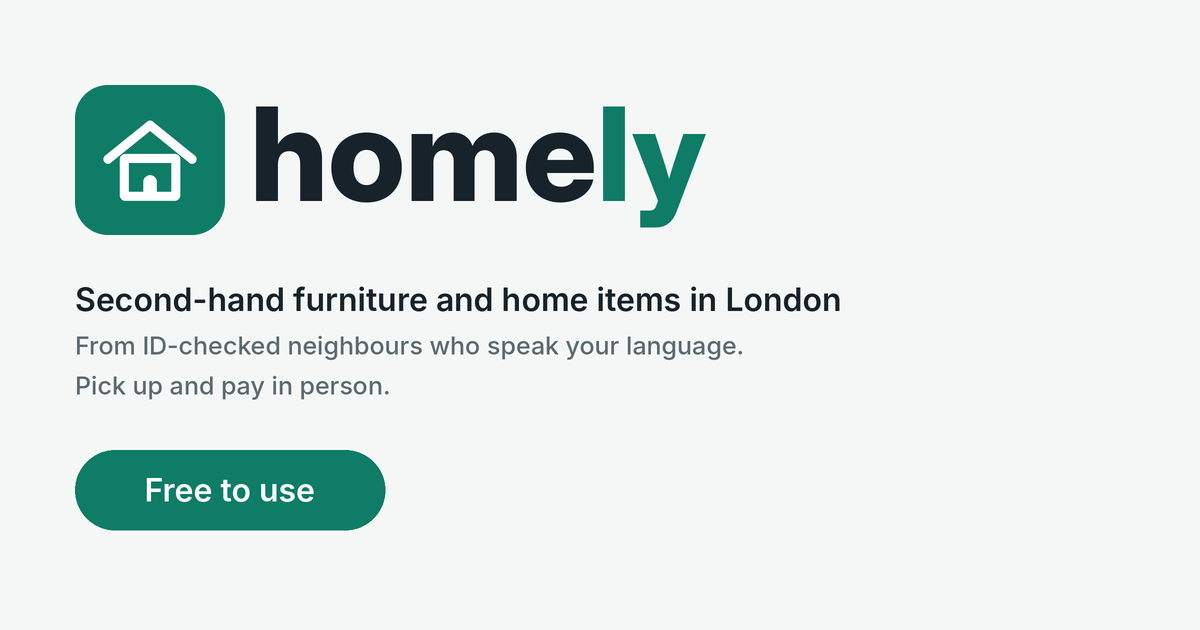
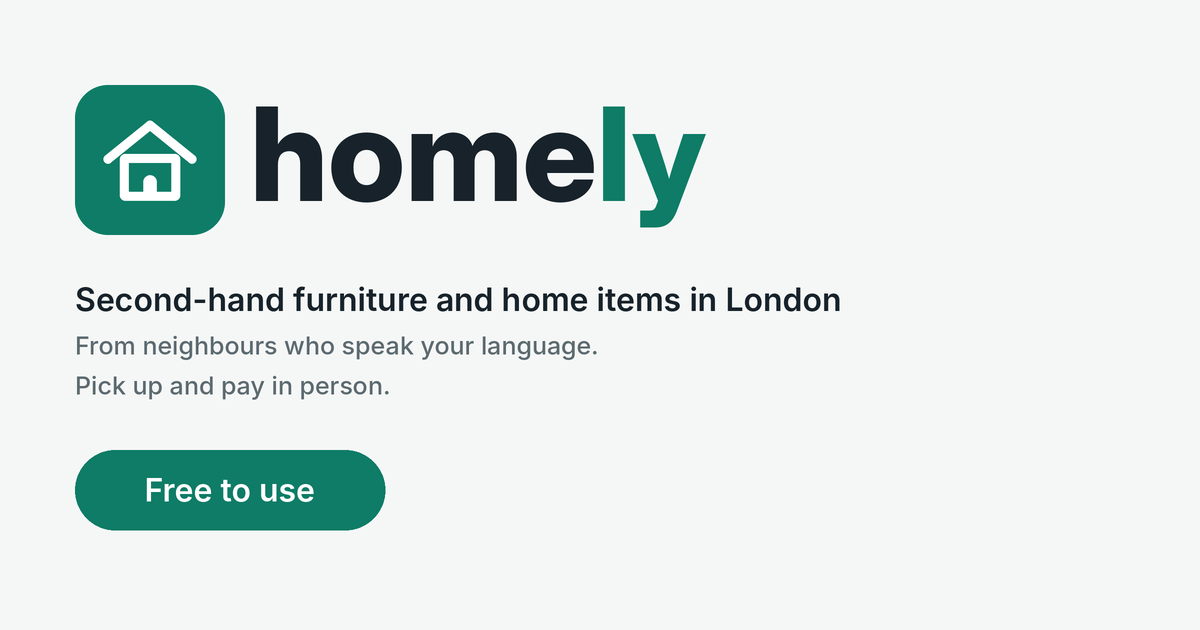
No ID check needed to sell, Google sign-in, feed follows each person's languages
- Anyone can post by default (app_settings.require_id_to_sell now defaults to off); the
  ID verified badge stays as an optional trust badge, the grey 'not checked' badge is gone
- Continue with Google on the website, with a hint for Instagram/TikTok in-app browsers where
  Google blocks sign-in; the welcome form starts with the Google first name
- The home feed starts with the languages in the person's profile (any number), keeps their own
  choice once they change it, and resets when they edit their profile languages
- Copy, terms, privacy policy and link previews updated

Claude-Session: https://claude.ai/code/session_018AgoqFgjgv6AW8BJ9VfRwT

Changed region(s): [[0.1233, 0.5127, 0.6167, 0.573]]

diff --git a/src/components/terms-text.tsx b/src/components/terms-text.tsx
@@ -14,7 +14,7 @@ type Section = [string, string];
 
 export const TERMS: Section[] = [
   ['What Homely is', `Homely helps people in London buy and sell second-hand household items locally. Buyers collect items in person and pay the seller directly. Homely is run by ${OPERATOR}. Homely is not the seller of any item and is not a party to the sale between buyer and seller.`],
-  ['Who can use it', 'You must be 18 or over and live in the UK. One account per person. Sellers must pass a one-time ID check before posting. Give true information about yourself.'],
+  ['Who can use it', 'You must be 18 or over and live in the UK. One account per person. Give true information about yourself.'],
   ['Selling', 'Describe items honestly with real photos of the actual item. Only sell things you own and are allowed to sell. Tell buyers about any faults. Mark items as sold or delete them when they are gone. Homely is for private individuals; if you sell as a business you must say so and follow consumer law.'],
   ['Buying', 'Check the item before you pay. Sales between private individuals are "as described": the item must match its description, but the seller does not have to give a refund if you change your mind. Never pay in advance or by bank transfer before seeing the item.'],
   ['Reserving and the Homely fee', 'You can reserve an item in the app. The item is then held for you and the seller is told in your chat. While Homely is new, reserving is free. When a reservation fee applies, the amount is shown before you pay and is charged to your card by our payment provider, Stripe. The fee is refunded if the seller cancels the reservation or the item is no longer available. It is not refunded if you cancel or do not turn up. The item price itself is always paid to the seller in person.'],
@@ -31,10 +31,10 @@ export const TERMS: Section[] = [
 
 export const PRIVACY: Section[] = [
   ['Who is responsible for your data', `${OPERATOR} runs Homely and is the "data controller" for your personal data under UK GDPR. Contact: ${CONTACT}.`],
-  ['What we collect', 'Your email address; your first name, neighbourhood and the languages you speak; optional phone number and Instagram; your listings and photos; the pickup postcode of each listing; your chats; reports and blocks; reservations and fees; and whether your ID check was passed. We do not keep copies of ID documents.'],
+  ['What we collect', 'Your email address (and, if you sign in with Google, the name and email Google shares with us); your first name, neighbourhood and the languages you speak; optional phone number and Instagram; your listings and photos; the pickup postcode of each listing; your chats; reports and blocks; reservations and fees; and, if you choose to do an ID check, whether you passed it. We do not keep copies of ID documents.'],
   ['Why we use it', 'To run your account and the marketplace (our contract with you); to keep people safe, prevent fraud and spam, and handle reports (our legitimate interests); and to keep payment records and meet legal duties (legal obligation).'],
   ['What other people see', 'Other users see your first name, neighbourhood, languages, ID-checked badge, listings and the first part of the pickup postcode (like SW3). Your exact pickup postcode is never shown: it is only used, rounded to about 500 metres, to work out distances. Your phone and Instagram are only shared when you tap Share contact in a chat.'],
-  ['Who we share it with', 'We do not sell your data or use it for advertising. We use these providers to run Homely: Supabase (database, sign-in and photo storage, hosted in London), Vercel (website hosting), Brevo (sign-in emails), Stripe (card payments, only if you pay a fee) and postcodes.io (turns a postcode into a map position). Some of them may process data outside the UK under approved safeguards. We share data with the police or other authorities when the law requires it.'],
+  ['Who we share it with', 'We do not sell your data or use it for advertising. We use these providers to run Homely: Supabase (database, sign-in and photo storage, hosted in London), Google (only if you choose to sign in with Google), Vercel (website hosting), Brevo (sign-in emails), Stripe (card payments, only if you pay a fee) and postcodes.io (turns a postcode into a map position). Some of them may process data outside the UK under approved safeguards. We share data with the police or other authorities when the law requires it.'],
   ['How long we keep it', 'Your account, listings, photos and chats are kept until you delete your account, and are then deleted. Records of reservations and fees are kept for 6 years because UK tax law requires it, without your name attached. Reports are kept for up to 2 years to keep the community safe.'],
   ['Cookies and storage', 'Homely does not use advertising or tracking cookies. Your browser or phone stores your sign-in and your search settings so the app keeps working. These are strictly necessary, so no consent is needed. Stripe sets its own cookies on its payment page to prevent fraud.'],
   ['Your rights', 'You can ask for a copy of your data, ask us to correct or delete it, object to how we use it, or ask us to restrict it. You can delete your account yourself in the app. If you are unhappy with how we handle your data, you can complain to the Information Commissioner\'s Office (ico.org.uk).'],

diff --git a/src/app/sign-in.tsx b/src/app/sign-in.tsx
@@ -15,6 +15,18 @@ export default function SignIn() {
   const [busy, setBusy] = useState(false);
   const [error, setError] = useState('');
 
+  // Google blocks its sign-in inside the Instagram, Facebook and TikTok in-app browsers.
+  const inAppBrowser = Platform.OS === 'web' && /Instagram|FBAN|FBAV|FB_IAB|TikTok|musical_ly|Bytedance/i.test(navigator.userAgent);
+
+  const google = async () => {
+    setError('');
+    const { error } = await supabase.auth.signInWithOAuth({
+      provider: 'google',
+      options: { redirectTo: window.location.origin, queryParams: { prompt: 'select_account' } },
+    });
+    if (error) setError(/not enabled|provider/i.test(error.message) ? 'Google sign-in is not switched on yet. Use your email for now.' : friendly(error));
+  };
+
   const sendCode = async () => {
     const e = email.trim().toLowerCase();
     if (!/^\S+@\S+\.\S+$/.test(e)) return setError('Enter a valid email address.');
@@ -53,8 +65,28 @@ export default function SignIn() {
             home<Text style={{ color: C.accent }}>ly</Text>
           </Text>
           <Text style={[s.p, { color: C.muted, marginBottom: 24 }]}>
-            Second-hand furniture and household items from ID-verified neighbours. Pick up in person, pay in person.
+            Second-hand furniture and household items from neighbours who speak your language. Pick up in person, pay in person.
           </Text>
+          {!sent && Platform.OS === 'web' ? (
+            inAppBrowser ? (
+              <View style={[s.note, { marginBottom: 14 }]}>
+                <Icon name="open-in-new" color={C.accent} />
+                <Text style={{ flex: 1, color: C.muted }}>
+                  To sign in with Google, open Homely in your phone's browser: tap <Text style={{ fontWeight: '700', color: C.ink }}>•••</Text> at
+                  the top and choose <Text style={{ fontWeight: '700', color: C.ink }}>Open in browser</Text>. Or use your email below.
+                </Text>
+              </View>
+            ) : (
+              <>
+                <Button title="Continue with Google" kind="ghost" icon="google" onPress={google} />
+                <View style={{ flexDirection: 'row', alignItems: 'center', gap: 10, marginVertical: 14 }}>
+                  <View style={{ flex: 1, height: 1, backgroundColor: C.line }} />
+                  <Text style={s.meta}>or use your email</Text>
+                  <View style={{ flex: 1, height: 1, backgroundColor: C.line }} />
+                </View>
+              </>
+            )
+          ) : null}
           {!sent ? (
             <>
               <Field label="Email" value={email} onChangeText={setEmail} placeholder="you@example.com"

diff --git a/src/lib/location.tsx b/src/lib/location.tsx
@@ -1,6 +1,7 @@
 import AsyncStorage from '@react-native-async-storage/async-storage';
-import { createContext, useContext, useEffect, useState, type ReactNode } from 'react';
+import { createContext, useContext, useEffect, useRef, useState, type ReactNode } from 'react';
 
+import { useAuth } from './auth';
 import { DEFAULT_LOCATION } from './constants';
 
 export type Filters = {
@@ -11,6 +12,8 @@ export type Filters = {
   languages: string[];
   category: string | null; // null = all, "Free" = price 0
   sort: 'near' | 'new' | 'cheap';
+  /** True once the person picks languages on the feed themselves; until then the feed follows their profile languages. */
+  languagesChosen?: boolean;
 };
 
 const DEFAULTS: Filters = { ...DEFAULT_LOCATION, radius: 3, languages: [], category: null, sort: 'near' };
@@ -23,19 +26,36 @@ const Ctx = createContext<{ filters: Filters; setFilters: (f: Partial<Filters>) 
 
 export function FiltersProvider({ children }: { children: ReactNode }) {
   const [filters, set] = useState<Filters>(DEFAULTS);
+  const [restored, setRestored] = useState(false);
+  const { profile } = useAuth();
+  const profileLangs = profile?.languages.join('|');
+  const lastProfileLangs = useRef<string | undefined>(undefined);
 
   useEffect(() => {
     AsyncStorage.getItem(KEY)
       .then((v) => v && set({ ...DEFAULTS, ...JSON.parse(v), category: null }))
-      .catch(() => {});
+      .catch(() => {})
+      .finally(() => setRestored(true));
   }, []);
 
+  const save = (next: Filters) => {
+    AsyncStorage.setItem(KEY, JSON.stringify(next)).catch(() => {});
+    return next;
+  };
+
   const setFilters = (f: Partial<Filters>) =>
-    set((prev) => {
-      const next = { ...prev, ...f };
-      AsyncStorage.setItem(KEY, JSON.stringify(next)).catch(() => {});
-      return next;
-    });
+    set((prev) => save({ ...prev, ...f, ...('languages' in f ? { languagesChosen: true } : {}) }));
+
+  // The feed shows sellers who speak the person's own languages, unless they chose others on the feed.
+  // Editing the languages in the profile resets the feed to them.
+  useEffect(() => {
+    if (!restored || profileLangs === undefined) return;
+    const changed = lastProfileLangs.current !== undefined && lastProfileLangs.current !== profileLangs;
+    lastProfileLangs.current = profileLangs;
+    set((prev) => (prev.languagesChosen && !changed
+      ? prev
+      : save({ ...prev, languages: profileLangs ? profileLangs.split('|') : [], languagesChosen: false })));
+  }, [restored, profileLangs]);
 
   return <Ctx.Provider value={{ filters, setFilters }}>{children}</Ctx.Provider>;
 }

diff --git a/src/components/profile-form.tsx b/src/components/profile-form.tsx
@@ -12,7 +12,11 @@ import { C } from '@/lib/theme';
 export function ProfileForm({ isNew }: { isNew: boolean }) {
   const { session, profile, refreshProfile } = useAuth();
   const uid = session!.user.id;
-  const [name, setName] = useState(profile?.name ?? '');
+  // People who sign in with Google already have a name; use their first name to start with.
+  const meta = session!.user.user_metadata ?? {};
+  const [name, setName] = useState<string>(
+    profile?.name ?? (meta.given_name || String(meta.full_name || meta.name || '').split(' ')[0] || '').slice(0, 40),
+  );
   const [area, setArea] = useState(profile?.area ?? '');
   const [langs, setLangs] = useState<string[]>(profile?.languages ?? []);
   const [phone, setPhone] = useState('');
@@ -35,7 +39,7 @@ export function ProfileForm({ isNew }: { isNew: boolean }) {
   const save = async () => {
     const n = name.trim();
     if (!n) return setError('Add your first name.');
-    if (!langs.length) return setError('Pick at least one language you speak.');
+    if (!langs.length) return setError('Pick at least one language.');
     if (!agree) return setError('Please agree to the terms to continue.');
     setBusy(true);
     setError('');
@@ -59,11 +63,11 @@ export function ProfileForm({ isNew }: { isNew: boolean }) {
       <Field label="First name" value={name} onChangeText={setName} placeholder="e.g. Kaan" maxLength={40} autoComplete="given-name" />
       <Field label="Neighbourhood" value={area} onChangeText={setArea} placeholder="e.g. Chelsea" maxLength={40}
         hint="Shown on your profile. Never your street or address." />
-      <Label style={{ marginTop: 0 }}>Languages I speak</Label>
+      <Label style={{ marginTop: 0 }}>Languages I want to buy and sell in</Label>
       <Chips wrap>
         {LANGUAGES.map(([l, c]) => <Chip key={l} label={l} sub={c} on={langs.includes(l)} onPress={() => toggle(l)} />)}
       </Chips>
-      <Text style={[s.hint, { marginTop: 8 }]}>Buyers can filter listings by the languages sellers speak.</Text>
+      <Text style={[s.hint, { marginTop: 8 }]}>Your feed shows items from people who speak these languages, and people looking for these languages can find your items. You can change it any time.</Text>
       <Label>Contact details (optional)</Label>
       <Field label="Phone" value={phone} onChangeText={setPhone} placeholder="07700 900000" keyboardType="phone-pad" autoComplete="tel" maxLength={30} />
       <Field label="Instagram" value={insta} onChangeText={setInsta} placeholder="@yourname" autoCapitalize="none" maxLength={40}

diff --git a/public/index.html b/public/index.html
@@ -5,7 +5,7 @@
     <meta httpEquiv="X-UA-Compatible" content="IE=edge" />
     <meta name="viewport" content="width=device-width, initial-scale=1, viewport-fit=cover" />
     <title>Homely · Second-hand furniture and home items in London</title>
-    <meta name="description" content="Buy and sell second-hand furniture and household items in London, from ID-checked neighbours who speak your language. Pick up and pay in person." />
+    <meta name="description" content="Buy and sell second-hand furniture and household items in London, from neighbours who speak your language. Pick up and pay in person." />
     <link rel="manifest" href="/manifest.json" />
     <link rel="apple-touch-icon" href="/apple-touch-icon.png" />
     <meta name="apple-mobile-web-app-capable" content="yes" />
@@ -16,7 +16,7 @@
     <meta property="og:type" content="website" />
     <meta property="og:site_name" content="Homely" />
     <meta property="og:title" content="Homely · Second-hand home items in London" />
-    <meta property="og:description" content="From ID-checked neighbours who speak your language. Pick up and pay in person." />
+    <meta property="og:description" content="From neighbours who speak your language. Pick up and pay in person." />
     <meta property="og:image" content="https://homely-london.vercel.app/og-image.png" />
     <meta property="og:image:width" content="1200" />
     <meta property="og:image:height" content="630" />

diff --git a/src/app/(tabs)/profile.tsx b/src/app/(tabs)/profile.tsx
@@ -47,10 +47,9 @@ export default function Profile() {
           <Text style={{ fontSize: 24, fontWeight: '800', color: C.ink, marginTop: 6 }}>{profile.name}</Text>
           <Text style={s.meta}>{profile.area ? `${profile.area} · ` : ''}Joined {monthYear(profile.created_at)}</Text>
           <Verified on={profile.id_verified} />
-          {!profile.id_verified && <Text style={[s.hint, { textAlign: 'center', maxWidth: 300 }]}>We check every seller's ID once, on a short video call, before they can post.</Text>}
         </View>
         <View style={s.pad}>
-          <Label>Languages I speak</Label>
+          <Label>My languages</Label>
           <Chips wrap>{profile.languages.map((l) => <Chip key={l} label={l} sub={langCode(l)} />)}</Chips>
           <Label>My listings</Label>
         </View>

diff --git a/src/components/ui.tsx b/src/components/ui.tsx
@@ -112,12 +112,7 @@ export const Verified = ({ on }: { on: boolean }) =>
       <Icon name="shield-check" size={14} color={C.verify} />
       <Text style={{ color: C.verify, fontWeight: '700', fontSize: 12.5 }}>ID verified</Text>
     </View>
-  ) : (
-    <View style={[s.verified, { backgroundColor: C.bg, borderWidth: 1, borderColor: C.line }]}>
-      <Icon name="shield-outline" size={14} color={C.muted} />
-      <Text style={{ color: C.muted, fontWeight: '700', fontSize: 12.5 }}>ID not checked yet</Text>
-    </View>
-  );
+  ) : null;
 
 export const LangTags = ({ langs }: { langs: string[] }) => (
   <View style={{ flexDirection: 'row', gap: 4, flexWrap: 'wrap' }}>

diff --git a/src/lib/settings.ts b/src/lib/settings.ts
@@ -5,7 +5,7 @@ import { supabase } from './supabase';
 /** Settings the admin can change in Supabase (Table Editor > app_settings) without a new release. */
 export type AppSettings = { commission_pence: number; require_id_to_sell: boolean };
 
-const DEFAULTS: AppSettings = { commission_pence: 0, require_id_to_sell: true };
+const DEFAULTS: AppSettings = { commission_pence: 0, require_id_to_sell: false };
 let cache: AppSettings | null = null;
 
 export async function loadSettings(): Promise<AppSettings> {

diff --git a/README.md b/README.md
@@ -13,7 +13,7 @@ Built with [Expo](https://expo.dev) (one codebase for web, Android and iPhone) a
 - **Home**: listings near your postcode, filtered by seller language and category, plus a Free filter.
 - **Search**: keyword, postcode, distance (1, 2, 3, 5 miles or any), language, category, sort.
 - **Sell**: up to 5 photos, title, price, category, condition, description, hygiene checklist, pickup postcode.
-  Only ID-verified sellers can post (switch in the `app_settings` table).
+  Anyone can post. To require an ID check before posting, tick `require_id_to_sell` in the `app_settings` table.
 - **Item page**: photos, details, rounded distance, seller, message button, report.
 - **Chat**: live messages, quick replies, Share contact (phone and/or Instagram, only when you choose).
 - **Safety**: report listings or people, block people, delete your account, terms and privacy page.
@@ -60,6 +60,16 @@ npm run web               # opens the app in your browser
 Whenever `supabase/schema.sql` changes, open **SQL Editor > New query**, paste the whole file and click **Run**.
 It is safe to run again: it keeps all users, listings and chats.
 
+### 5. Google sign-in (one-time)
+
+1. [Google Cloud Console](https://console.cloud.google.com) > new project "Homely" > **APIs & Services > OAuth consent screen**:
+   External, app name Homely, your email, then **Publish app**.
+2. **Credentials > Create credentials > OAuth client ID**: type **Web application**. Under **Authorized redirect URIs** add
+   `https://onukvcqeocqfvyojodzy.supabase.co/auth/v1/callback`. Copy the **Client ID** and **Client secret**.
+3. Supabase > **Authentication > Sign In / Providers > Google**: switch on, paste both, **Save**.
+
+Until this is done, the "Continue with Google" button shows a message asking people to use their email.
+
 ## Running Homely day to day (all in Supabase > Table Editor)
 
 | Task | Where |
@@ -67,7 +77,7 @@ It is safe to run again: it keeps all users, listings and chats.
 | ID checks to do | **admin_id_check_requests** lists sellers who asked, with email, phone and Instagram. After the video call, open **profiles**, find the person and tick **id_verified**. |
 | Reports | **admin_open_reports**. A listing reported by 3 different people is hidden automatically. To hide a listing yourself tick **listings.hidden**; to un-hide, untick it. When done, set the report's **status** to `resolved` in **reports**. |
 | Ban someone | **profiles**: tick **banned**. Their listings disappear and they can no longer post, message or reserve. |
-| Let anyone sell without an ID check | **app_settings**: untick **require_id_to_sell**. |
+| Require an ID check before selling (off by default) | **app_settings**: tick **require_id_to_sell**. Give trusted sellers an "ID verified" badge by ticking **profiles.id_verified**. |
 | Commission earned | **admin_commission_by_month**, or every reservation in **transactions**. |
 
 ## The commission (reservation fee)
